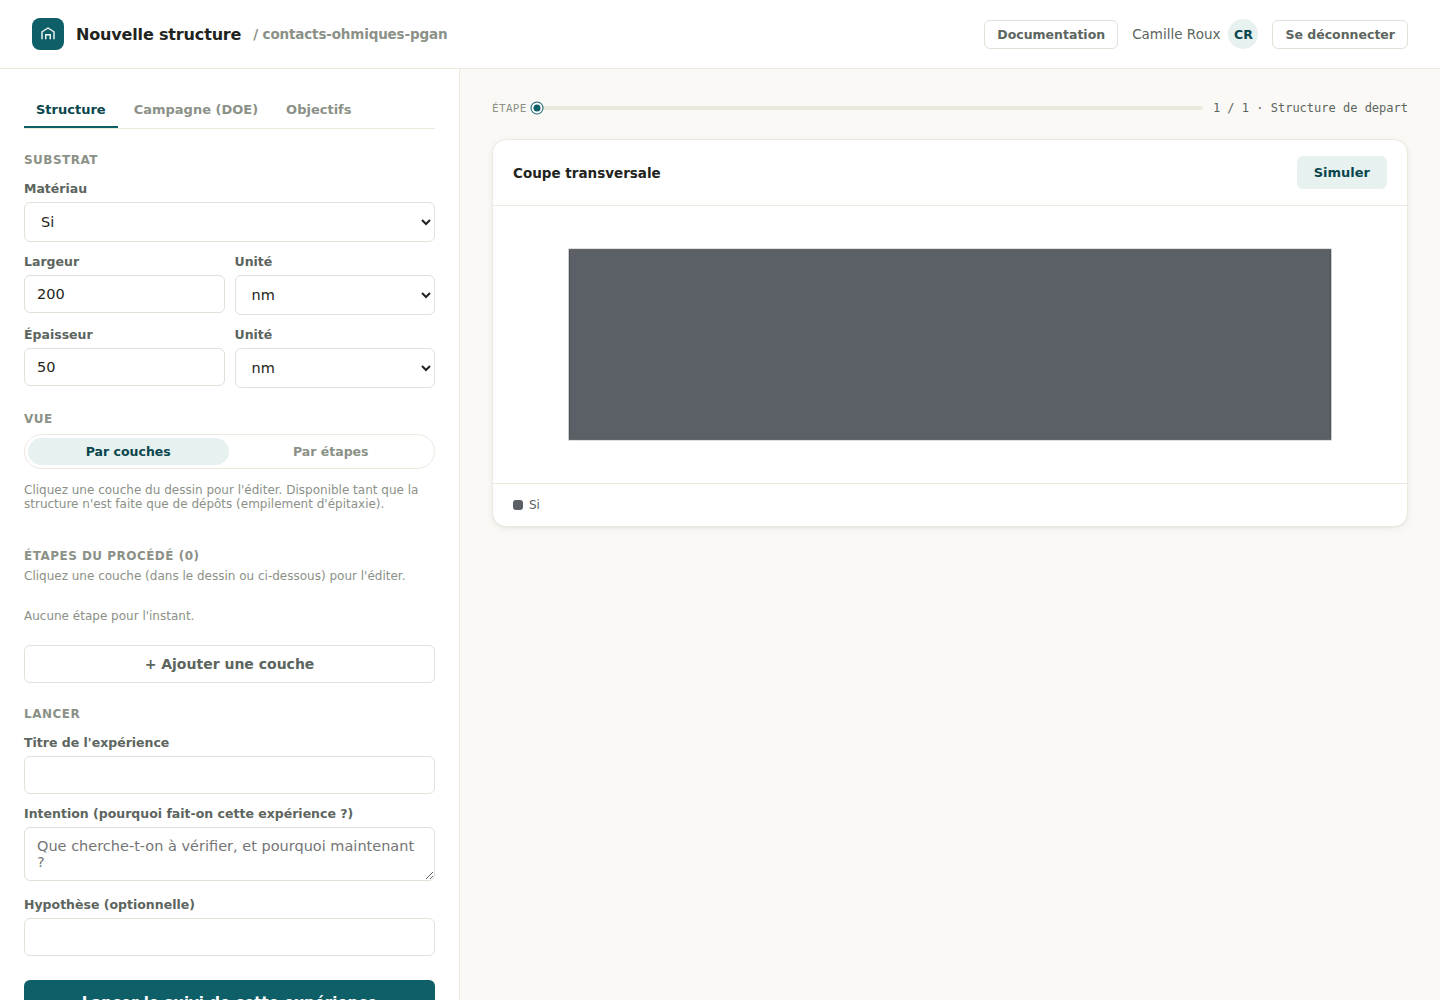
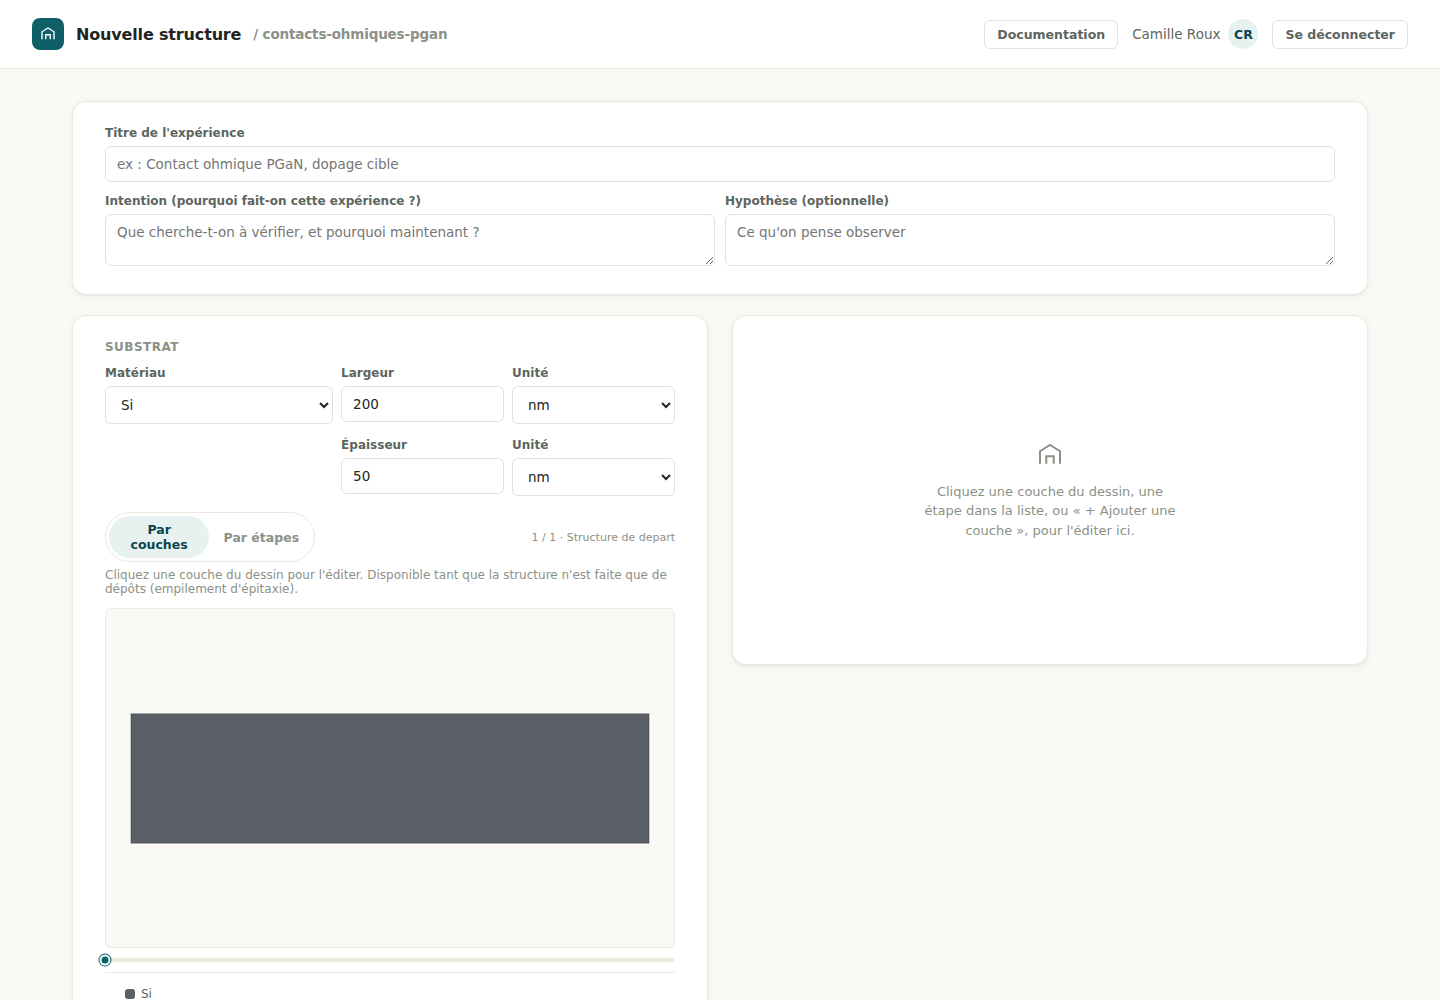
Refonte complète du constructeur : titre en tête, grille structure/panneau, plus de bouton Simuler
Nouvelle organisation de la page, en page normale qui défile (fini la colonne verrouillée à
la hauteur de l'écran) :
- Titre, intention et hypothèse de l'expérience en haut de page - l'identité de l'étude
  avant tout le reste.
- Une grille à deux blocs : à gauche le substrat, la bascule couches/étapes, la coupe
  transversale (taille moyenne, plus de bouton "Simuler" - l'aperçu est déjà automatique
  depuis la passe précédente) et la liste compacte des étapes ; à droite un panneau
  contextuel qui reste vide avec un message d'invite tant que rien n'est sélectionné, et se
  remplit avec le formulaire de l'étape dès qu'on clique une couche du dessin, une étape de
  la liste, ou "+ Ajouter une couche".
- En dessous, deux accordéons pleine largeur (Campagne DOE, Objectifs) puis le bouton Lancer.

Retiré le bouton "Simuler" devenu inutile (redondant avec l'aperçu automatique) et les
onglets internes de la passe précédente (remplacés par les accordéons demandés). Captures
d'écran du guide et des exemples régénérées.

diff --git a/spectre/api/static/structure-builder.html b/spectre/api/static/structure-builder.html
@@ -28,41 +28,58 @@
     </div>
   </div>
 
-  <div id="error" class="error" style="display:none;margin:14px 32px 0;"></div>
+  <div class="page" style="max-width:1360px;">
+    <div id="error" class="error" style="display:none;margin-bottom:16px;"></div>
 
-  <div class="builder-shell">
-    <div class="builder-sidebar">
-
-      <div class="builder-tabs">
-        <button class="builder-tab active" id="tab-btn-structure" type="button">Structure</button>
-        <button class="builder-tab" id="tab-btn-campagne" type="button">Campagne (DOE)</button>
-        <button class="builder-tab" id="tab-btn-objectifs" type="button">Objectifs</button>
+    <div class="card card-pad" style="margin-bottom:20px;">
+      <div class="field-group">
+        <div><label>Titre de l'expérience</label><input class="field" id="exp-title" placeholder="ex : Contact ohmique PGaN, dopage cible"></div>
+        <div class="field-row">
+          <div><label>Intention (pourquoi fait-on cette expérience ?)</label><textarea class="field" id="exp-intent" rows="2" placeholder="Que cherche-t-on à vérifier, et pourquoi maintenant ?"></textarea></div>
+          <div><label>Hypothèse (optionnelle)</label><textarea class="field" id="exp-hypothesis" rows="2" placeholder="Ce qu'on pense observer"></textarea></div>
+        </div>
       </div>
+    </div>
 
-      <div class="builder-tab-panel" id="tab-panel-structure">
-
+    <div class="builder-grid">
+      <div class="card card-pad">
         <div id="substrate-section">
-          <div class="section-title" style="margin-bottom:14px;">Substrat</div>
-          <div class="field-group">
+          <div class="section-title" style="margin-bottom:12px;">Substrat</div>
+          <div class="field-row" style="grid-template-columns:1.4fr 1fr 1fr;gap:8px;margin-bottom:14px;">
             <div><label>Matériau</label><select class="field" id="substrate-material"></select></div>
-            <div class="field-row">
-              <div><label>Largeur</label><input class="field" id="substrate-width" type="number" value="200"></div>
-              <div><label>Unité</label><select class="field" id="substrate-width-unit"><option value="nm" selected>nm</option><option value="um">µm</option></select></div>
-            </div>
-            <div class="field-row">
-              <div><label>Épaisseur</label><input class="field" id="substrate-thickness" type="number" value="50"></div>
-              <div><label>Unité</label><select class="field" id="substrate-thickness-unit"><option value="nm" selected>nm</option><option value="um">µm</option></select></div>
-            </div>
+            <div><label>Largeur</label><input class="field" id="substrate-width" type="number" value="200"></div>
+            <div><label>Unité</label><select class="field" id="substrate-width-unit"><option value="nm" selected>nm</option><option value="um">µm</option></select></div>
+          </div>
+          <div class="field-row" style="grid-template-columns:1.4fr 1fr 1fr;gap:8px;">
+            <div></div>
+            <div><label>Épaisseur</label><input class="field" id="substrate-thickness" type="number" value="50"></div>
+            <div><label>Unité</label><select class="field" id="substrate-thickness-unit"><option value="nm" selected>nm</option><option value="um">µm</option></select></div>
           </div>
         </div>
 
-        <div>
-          <div class="section-title" style="margin-bottom:8px;">Vue</div>
-          <div class="view-toggle" style="margin-bottom:14px;">
+        <div style="margin-top:16px;display:flex;align-items:center;justify-content:space-between;gap:10px;">
+          <div class="view-toggle">
             <button class="view-toggle__btn active" id="view-mode-couches" type="button">Par couches</button>
             <button class="view-toggle__btn" id="view-mode-etapes" type="button">Par étapes</button>
           </div>
-          <div class="help" id="view-mode-help" style="margin-bottom:14px;">Cliquez une couche du dessin pour l'éditer. Disponible tant que la structure n'est faite que de dépôts (empilement d'épitaxie).</div>
+          <div style="font-size:11px;color:var(--text-faint);" id="scrubber-label">Pas encore simulé</div>
+        </div>
+        <div class="help" id="view-mode-help" style="margin:6px 0 12px;">Cliquez une couche du dessin pour l'éditer. Disponible tant que la structure n'est faite que de dépôts (empilement d'épitaxie).</div>
+
+        <div id="svg-container" class="builder-canvas-svg"></div>
+        <div class="scrubber-track" id="scrubber-track" style="margin:10px 0;"></div>
+        <div class="legend" id="legend" style="margin-bottom:14px;"></div>
+
+        <div class="section-title" style="margin-bottom:6px;">Étapes du procédé (<span id="steps-count">0</span>)</div>
+        <div class="help" style="margin-bottom:10px;" id="steps-list-help">Cliquez une étape pour la modifier ; ▲▼ pour la déplacer.</div>
+        <div id="steps-list" style="display:flex;flex-direction:column;gap:8px;"></div>
+        <button class="btn btn-line btn-block" id="add-step-shortcut-btn" type="button" style="margin-top:10px;display:none;">+ Ajouter une couche</button>
+      </div>
+
+      <div class="card card-pad" id="context-panel">
+        <div id="context-panel-empty" class="builder-empty-state">
+          <svg width="30" height="30" viewBox="0 0 24 24" fill="none" stroke="currentColor" stroke-width="1.6"><path d="M4 19V9l8-5 8 5v10"/><path d="M9 19v-6h6v6"/></svg>
+          <p>Cliquez une couche du dessin, une étape dans la liste, ou « + Ajouter une couche », pour l'éditer ici.</p>
         </div>
 
         <div id="step-form-section" style="display:none;">
@@ -87,20 +104,20 @@
             <button class="btn btn-line btn-block" id="cancel-edit-btn" type="button" style="display:none;">Annuler la modification</button>
           </div>
         </div>
-
-        <div>
-          <div class="section-title" style="margin-bottom:6px;">Étapes du procédé (<span id="steps-count">0</span>)</div>
-          <div class="help" style="margin-bottom:10px;" id="steps-list-help">Cliquez une étape pour la modifier ; ▲▼ pour la déplacer.</div>
-          <div id="steps-list" style="display:flex;flex-direction:column;gap:8px;"></div>
-          <button class="btn btn-line btn-block" id="add-step-shortcut-btn" type="button" style="margin-top:10px;display:none;">+ Ajouter une couche</button>
-        </div>
-
       </div>
+    </div>
 
-      <div class="builder-tab-panel" id="tab-panel-campagne" style="display:none;">
-        <div>
-          <div class="section-title" style="margin-bottom:6px;">Campagne DOE — plusieurs échantillons (split)</div>
-          <div class="help" style="margin-bottom:12px;">Faites varier un ou plusieurs paramètres (ex : dopage) pour lancer une campagne de plusieurs échantillons en une seule expérience. Avec plusieurs paramètres, toutes les combinaisons sont générées (ex : 3 épaisseurs &times; 3 angles = 9 échantillons). La feuille de split (qui a reçu quelle valeur) apparaîtra sur la fiche de l'expérience une fois lancée.</div>
+    <div style="display:flex;flex-direction:column;gap:12px;margin:20px 0;">
+      <details id="campaign-section" class="card" style="padding:0;background:var(--bg);overflow:hidden;">
+        <summary class="disclosure-btn disclosure-btn--tint">
+          <span>
+            Campagne DOE — plusieurs échantillons (split)
+            <span class="disclosure-btn__sub">Faire varier un ou plusieurs paramètres (ex : dopage) et lancer tous les échantillons en une fois.</span>
+          </span>
+          <svg class="disclosure-btn__chevron" width="16" height="16" viewBox="0 0 24 24" fill="none" stroke="currentColor" stroke-width="2.2"><path d="M6 9l6 6 6-6"/></svg>
+        </summary>
+        <div style="padding:14px 16px 16px;">
+          <div class="help" style="margin-bottom:10px;">Avec plusieurs paramètres, toutes les combinaisons sont générées (ex : 3 épaisseurs &times; 3 angles = 9 échantillons). La feuille de split (qui a reçu quelle valeur) apparaîtra sur la fiche de l'expérience une fois lancée.</div>
           <div id="campaign-factors" style="display:flex;flex-direction:column;gap:10px;margin-bottom:10px;"></div>
           <button class="btn btn-line btn-block" id="campaign-add-factor-btn" type="button" style="margin-bottom:10px;">+ Ajouter un paramètre</button>
           <div style="display:flex;gap:8px;">
@@ -109,12 +126,17 @@
           </div>
           <div id="campaign-result"></div>
         </div>
-      </div>
+      </details>
 
-      <div class="builder-tab-panel" id="tab-panel-objectifs" style="display:none;">
-        <div>
-          <div class="section-title" style="margin-bottom:6px;">Objectifs</div>
-          <div class="help" style="margin-bottom:12px;">Ce qu'on cherche à savoir avec cette expérience, et comment on saura si c'est atteint.</div>
+      <details id="objectives-section" class="card" style="padding:0;overflow:hidden;">
+        <summary class="disclosure-btn disclosure-btn--line">
+          <span>
+            Objectifs
+            <span class="disclosure-btn__sub">Ce qu'on cherche à savoir, et comment on saura si c'est atteint.</span>
+          </span>
+          <svg class="disclosure-btn__chevron" width="16" height="16" viewBox="0 0 24 24" fill="none" stroke="currentColor" stroke-width="2.2"><path d="M6 9l6 6 6-6"/></svg>
+        </summary>
+        <div style="padding:0 16px 16px;">
           <div id="objectives-list" style="display:flex;flex-direction:column;gap:10px;margin-bottom:12px;"></div>
           <form id="objective-form" style="display:flex;flex-direction:column;gap:8px;">
             <div><label>Objectif</label><input class="field" id="obj-name" placeholder="ex : isolation électrique" required></div>
@@ -135,9 +157,9 @@
             <button class="btn btn-line btn-block" type="submit">Ajouter l'objectif</button>
           </form>
         </div>
-      </div>
+      </details>
 
-      <div id="branch-choice-wrap" style="display:none;">
+      <div class="card card-pad" id="branch-choice-wrap" style="display:none;">
         <div class="section-title" style="margin-bottom:10px;">Piste</div>
         <div style="display:flex;flex-direction:column;gap:8px;">
           <label style="display:flex;align-items:center;gap:8px;font-weight:400;font-size:13px;color:var(--text);">
@@ -150,35 +172,9 @@
           <div class="help">Une nouvelle piste garde le lien avec la version de départ, mais évolue séparément — pratique pour comparer deux directions.</div>
         </div>
       </div>
-
-      <div>
-        <div class="section-title" style="margin-bottom:14px;">Lancer</div>
-        <div class="field-group">
-          <div><label>Titre de l'expérience</label><input class="field" id="exp-title"></div>
-          <div><label>Intention (pourquoi fait-on cette expérience ?)</label><textarea class="field" id="exp-intent" rows="2" placeholder="Que cherche-t-on à vérifier, et pourquoi maintenant ?"></textarea></div>
-          <div><label>Hypothèse (optionnelle)</label><input class="field" id="exp-hypothesis"></div>
-        </div>
-      </div>
-
-      <button class="btn btn-primary btn-block" id="launch-btn" style="font-size:15px;padding:13px;">Lancer le suivi de cette expérience</button>
     </div>
 
-    <div class="builder-canvas">
-      <div class="mono" style="display:flex;align-items:center;gap:10px;">
-        <div style="font-size:11px;color:var(--text-faint);letter-spacing:.03em;">ÉTAPE</div>
-        <div class="scrubber-track" id="scrubber-track"></div>
-        <div style="font-size:12px;color:var(--text-soft);white-space:nowrap;" id="scrubber-label">Pas encore simulé</div>
-      </div>
-
-      <div class="card builder-canvas-card" style="display:flex;flex-direction:column;">
-        <div style="display:flex;align-items:center;justify-content:space-between;padding:16px 20px;border-bottom:1px solid var(--border-soft);">
-          <div style="font-size:13.5px;font-weight:700;">Coupe transversale</div>
-          <button class="btn btn-tint" id="simulate-btn" type="button" style="padding:8px 16px;font-size:13px;">Simuler</button>
-        </div>
-        <div style="flex:1;display:flex;align-items:center;justify-content:center;padding:24px;overflow:auto;min-height:0;" id="svg-container"></div>
-        <div class="legend" id="legend"></div>
-      </div>
-    </div>
+    <button class="btn btn-primary btn-block" id="launch-btn" style="font-size:15px;padding:14px;">Lancer le suivi de cette expérience</button>
   </div>
 
   <script src="/static/js/api.js"></script>

diff --git a/spectre/api/static/css/style.css b/spectre/api/static/css/style.css
@@ -583,82 +583,60 @@ textarea:focus {
 
 /* -- constructeur de structure ---------------------------------------------------------- */
 
-.builder-shell {
+/* -- constructeur de structure : grille structure (gauche) / panneau contextuel (droite) - le
+   reste (campagne, objectifs) vit en accordéons pleine largeur en dessous, la page défile
+   normalement comme les autres écrans (plus de colonne verrouillée à la hauteur de l'écran). */
+
+.builder-grid {
   display: grid;
-  grid-template-columns: 460px minmax(0, 1fr);
-  height: calc(100vh - 68px);
+  grid-template-columns: 1fr 1fr;
+  gap: var(--space-5);
+  align-items: start;
 }
 
-.builder-sidebar {
-  border-right: 1px solid var(--border-soft);
-  background: var(--surface);
-  padding: var(--space-5) var(--space-5);
+@media (max-width: 860px) {
+  .builder-grid {
+    grid-template-columns: 1fr;
+  }
+}
+
+.builder-canvas-svg {
+  height: 340px;
+  display: flex;
+  align-items: center;
+  justify-content: center;
+  background: var(--bg);
+  border: 1px solid var(--border-soft);
+  border-radius: var(--radius-sm);
+  overflow: auto;
+  padding: 12px;
+}
+
+.builder-canvas-svg svg {
+  max-height: 100%;
+  max-width: 100%;
+}
+
+#context-panel {
+  min-height: 340px;
+}
+
+.builder-empty-state {
   display: flex;
   flex-direction: column;
-  gap: var(--space-5);
-  overflow-y: auto;
-  min-height: 0;
-}
-
-/* Champs un peu plus confortables dans le panneau des paramètres, maintenant qu'il a la
-   largeur pour ça - la taille de police globale (12-13.5px) reste correcte ailleurs (fiches,
-   formulaires courts), mais se sentait exigüe ici avec beaucoup de champs empilés. */
-.builder-sidebar label {
-  font-size: 12.5px;
-}
-.builder-sidebar .field,
-.builder-sidebar input,
-.builder-sidebar select,
-.builder-sidebar textarea {
-  font-size: 14.5px;
-  padding: 10px 12px;
-}
-
-.builder-canvas {
-  padding: var(--space-6);
-  display: flex;
-  flex-direction: column;
-  gap: var(--space-5);
-  overflow-y: auto;
-  min-height: 0;
-}
-
-.builder-canvas-card {
-  max-height: 54vh;
-}
-
-/* -- onglets internes au constructeur (Structure / Campagne / Objectifs) ----------------- */
-
-.builder-tabs {
-  display: flex;
-  gap: 4px;
-  border-bottom: 1px solid var(--border-soft);
-  flex: none;
-}
-
-.builder-tab {
-  padding: 9px 12px;
-  font-size: 13px;
-  font-weight: 600;
+  align-items: center;
+  justify-content: center;
+  text-align: center;
+  gap: 12px;
   color: var(--text-faint);
-  border-bottom: 2px solid transparent;
-  cursor: pointer;
-  background: none;
-  border-top: none;
-  border-left: none;
-  border-right: none;
-  font-family: inherit;
+  padding: 48px 24px;
+  min-height: 300px;
 }
 
-.builder-tab.active {
-  color: var(--accent-dark);
-  border-bottom-color: var(--accent);
-}
-
-.builder-tab-panel {
-  display: flex;
-  flex-direction: column;
-  gap: var(--space-5);
+.builder-empty-state p {
+  font-size: 13px;
+  max-width: 32ch;
+  line-height: 1.5;
 }
 
 .step-row {

diff --git a/spectre/api/static/js/structure-builder.js b/spectre/api/static/js/structure-builder.js
@@ -380,6 +380,7 @@ function updateViewModeAvailability() {
 function updateStepFormVisibility() {
   const formVisible = state.viewMode === "etapes" || state.editingIndex !== null || state.showStepForm;
   document.getElementById("step-form-section").style.display = formVisible ? "" : "none";
+  document.getElementById("context-panel-empty").style.display = formVisible ? "none" : "";
   document.getElementById("add-step-shortcut-btn").style.display =
     !formVisible && state.viewMode === "couches" ? "" : "none";
   document.getElementById("cancel-edit-btn").style.display =
@@ -514,16 +515,6 @@ function setViewMode(mode) {
 document.getElementById("view-mode-couches").addEventListener("click", () => setViewMode("couches"));
 document.getElementById("view-mode-etapes").addEventListener("click", () => setViewMode("etapes"));
 
-const BUILDER_TABS = ["structure", "campagne", "objectifs"];
-function setActiveTab(tab) {
-  BUILDER_TABS.forEach((name) => {
-    document.getElementById(`tab-btn-${name}`).classList.toggle("active", name === tab);
-    document.getElementById(`tab-panel-${name}`).style.display = name === tab ? "" : "none";
-  });
-}
-BUILDER_TABS.forEach((name) => {
-  document.getElementById(`tab-btn-${name}`).addEventListener("click", () => setActiveTab(name));
-});
 document.getElementById("add-step-shortcut-btn").addEventListener("click", startAddingStep);
 
 document.getElementById("svg-container").addEventListener("click", (event) => {
@@ -763,7 +754,7 @@ async function loadExistingProcess() {
     const verification = detail.objective_verification || {};
     state.objectives = detail.objectives.map((o) => ({ ...o, verification_method: verification[o.name] || null }));
     renderObjectives();
-    if (state.objectives.length > 0) setActiveTab("objectifs");
+    document.getElementById("objectives-section").open = state.objectives.length > 0;
   } catch (err) {
     showError(err);
   }
@@ -845,14 +836,6 @@ function scheduleSimulate(delay = 120) {
   }, delay);
 }
 
-document.getElementById("simulate-btn").addEventListener("click", () => {
-  if (simulateTimer) {
-    clearTimeout(simulateTimer);
-    simulateTimer = null;
-  }
-  simulateNow();
-});
-
 ["substrate-material", "substrate-width", "substrate-width-unit", "substrate-thickness", "substrate-thickness-unit"].forEach(
   (id) => document.getElementById(id).addEventListener("change", () => scheduleSimulate())
 );
@@ -925,7 +908,7 @@ async function loadTemplateProcess() {
 async function init() {
   document.getElementById("crumb").textContent = "/ " + slug;
   if (evolveExperienceId) {
-    document.getElementById("tab-btn-campagne").style.display = "none";
+    document.getElementById("campaign-section").style.display = "none";
     document.getElementById("branch-choice-wrap").style.display = "block";
   }
   await loadPickers();
